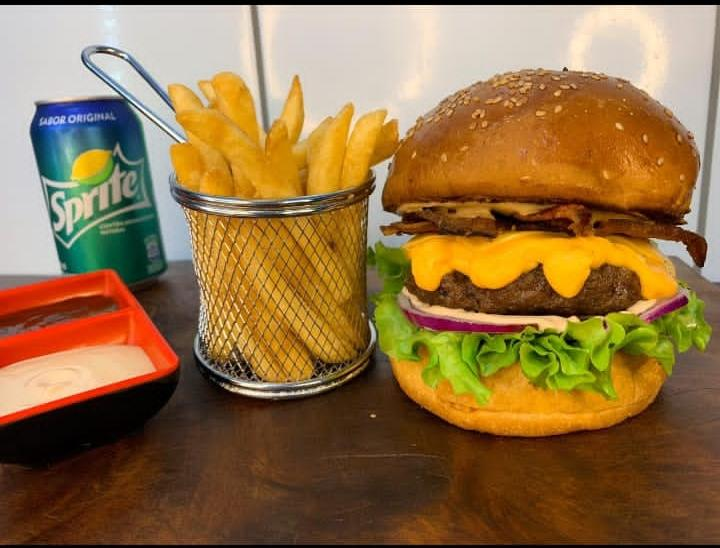
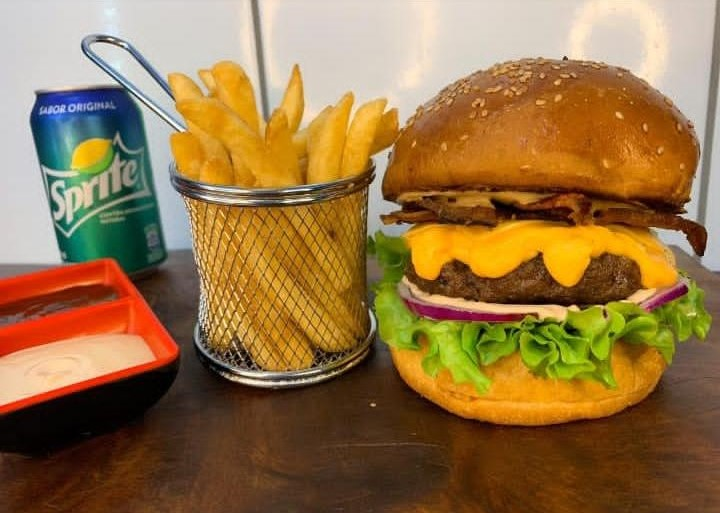
att

diff --git a/index.html b/index.html
@@ -230,7 +230,7 @@
           <section>
             <div class="card-wrapper1">
               <div class="card-item1">
-                <img src="imagens/01.jpg" alt=burguer2 />
+                <img src="imagens/01.png" alt=burguer2 />
                   <div class="card-content1">
                     <br><h5>Clássico Burguer</h5>
                       <ul>
@@ -363,7 +363,7 @@
               </div>
 
               <div class="card-item1">
-                <img src="imagens/05.png" alt=burguer2 />
+                <img src="imagens/05.jpg" alt=burguer2 />
                   <div class="card-content1">
                     <br><h5>Top Catupiry e Alho</h5>
                       <ul>

diff --git a/estilos/style.css b/estilos/style.css
@@ -420,7 +420,7 @@ margin: 1px;
 }
 
 section .card-item1 {
-height: 624px;
+height: 602px;
 background:  linear-gradient(to right, var(--cor0), var(--cor3), var(--cor0));
 border-radius: 8px;
 display: flex;
